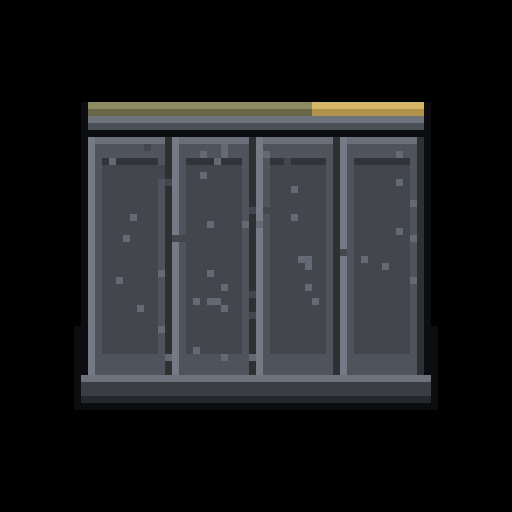
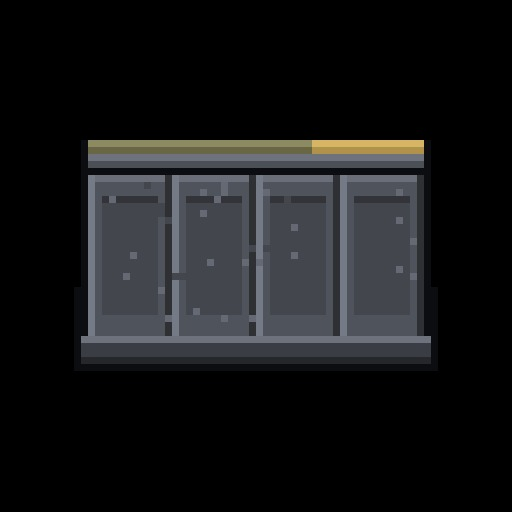
Boltgun 1.4.18: shorter Bolt Pistol Magazine
Claude-Session: https://claude.ai/code/session_01PqPi8UEDnERcNBcjVgrc36

diff --git a/src/Plugin.cs b/src/Plugin.cs
@@ -11,7 +11,7 @@ namespace Boltgun
     public class Plugin : BasePlugin
     {
         public const string Guid = "girthy_mods.zedzone.boltgun";
-        public const string Version = "1.4.17";
+        public const string Version = "1.4.18";
 
         public override void Load()
         {

diff --git a/CHANGELOG.md b/CHANGELOG.md
@@ -1,5 +1,8 @@
 # Changelog
 
+## 1.4.18
+- Bolt Pistol Magazine: shorter, so less of it hangs below the gun.
+
 ## 1.4.17
 - Bolt Pistol: the magazine well under the gun is taller and covers the top of the magazine.
 - Bolt Pistol Magazine: wider, with wider ribs, sitting slightly further back.
